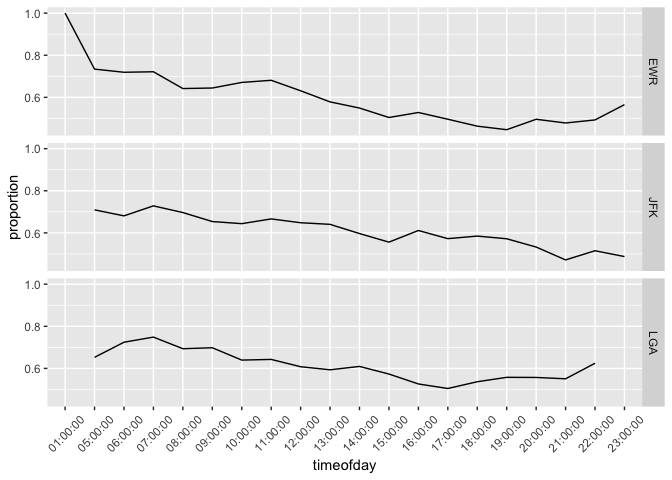
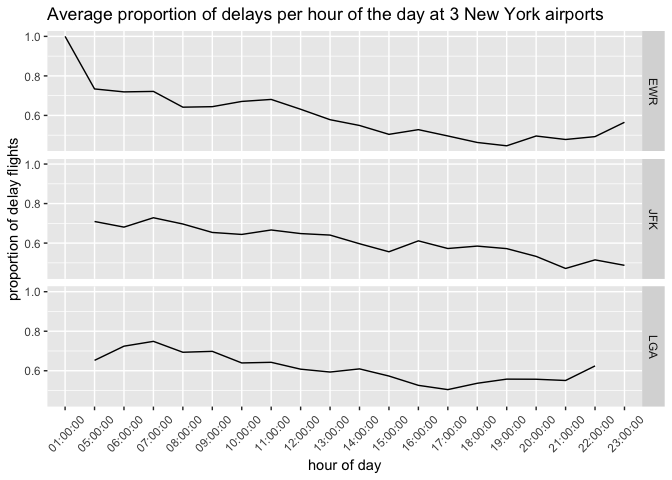
latest version

diff --git a/assignment2-433.md b/assignment2-433.md
@@ -3,6 +3,17 @@ assignment2-433
 Chenshuo Pan
 2022-10-07
 
+**This file analyzes the delays at New York airports at different times
+of the day, considering that the number of flights in each period is
+different, so here I use the ratio as a measure. The delay data is
+analyzed in combination with factors such as seasons, different
+airports, airlines, etc., and some experiments are carried out based on
+my own experience. In general, it is recommended to take flights in the
+mornings in winter and evenings in summer, and there is not much
+difference between the three airports in New York. Recommend United
+Airline in airline selection, Southwest Airlines in the evening, not
+Virgin America at noon.**
+
 ``` r
 library(dplyr)
 ```
@@ -179,23 +190,17 @@ flight_season <-left_join(flight_season2,flight_season1)%>%mutate(proportion = n
     ## Joining, by = c("timeofday", "season")
 
 ``` r
-ggplot()+
-  # geom_bar(mapping = aes(x = timeofday, y = n),stat="identity")+
-  geom_line(aes(x = flight_season$timeofday[flight_season$season=="Spring"],y = flight_season$proportion[flight_season$season=="Spring"]),group = 1,color="red")+
-  geom_line(aes(x = flight_season$timeofday[flight_season$season=="Summer"],y = flight_season$proportion[flight_season$season=="Summer"]),group = 1,color="green")+
-  geom_line(aes(x = flight_season$timeofday[flight_season$season=="Autumn"],y = flight_season$proportion[flight_season$season=="Autumn"]),group = 1,color="blue")+
-  geom_line(aes(x = flight_season$timeofday[flight_season$season=="Winter"],y = flight_season$proportion[flight_season$season=="Winter"]),group = 1,color="yellow")+
-  theme(axis.text.x = element_text(angle = 45, hjust = 0.5, vjust = 0.5))+
+flight_season%>%ggplot(aes(x = timeofday,
+                           y = proportion,
+                           color = season))+
+  geom_line(group = flight_season$season)+
+theme(axis.text.x = element_text(angle = 45, hjust = 0.5, vjust = 0.5))+
   xlab("hour of day")+
-  ylab("proportion of delay flights")+theme(legend.text = element_text(size = 8, colour = "red"))
+  ylab("proportion of delay flights")+theme(legend.text = element_text(size = 8, colour = "red"))+
+  ggtitle("Average proportion of delays time of the day for the four seasons")
 ```
 
 ![](assignment2-433_files/figure-gfm/unnamed-chunk-8-1.png)<!-- -->
-
-``` r
-# legend("topleft",legend = c("Springm","Summer","Autumn","Winter"),col = c("red",'green','blue,’yellow'))
-```
-
 **Here, according to the four seasons, I have drawn the proportional
 curve of each time point. It can be clearly seen that the blue color is
 autumn, and the flight delay ratio is always higher than that of the
@@ -235,7 +240,10 @@ flight_origin <-left_join(flight_origin2,flight_origin1)%>%mutate(proportion = n
 ggplot(flight_origin)+
   geom_line(aes(x = timeofday,y = proportion),group = 1)+
   facet_grid(origin~.)+
-    theme(axis.text.x = element_text(angle = 45, hjust = 0.5, vjust = 0.5))
+    theme(axis.text.x = element_text(angle = 45, hjust = 0.5, vjust = 0.5))+
+    xlab("hour of day")+
+  ylab("proportion of delay flights")+
+  ggtitle("Average proportion of delays per hour of the day at 3 New York airports")
 ```
 
 ![](assignment2-433_files/figure-gfm/unnamed-chunk-11-1.png)<!-- -->
@@ -268,7 +276,10 @@ flight_carrier <-left_join(flight_carrier2,flight_carrier1)%>%mutate(proportion 
 ggplot(flight_carrier)+
   geom_line(aes(x = timeofday,y = proportion),group = 1)+
   facet_wrap(carrier~.)+
-    theme(axis.text.x = element_text(angle = 45, hjust = 0.5, vjust = 0.5))
+    theme(axis.text.x = element_text(angle = 45, hjust = 0.5, vjust = 0.5))+
+      xlab("hour of day")+
+  ylab("proportion of delay flights")+
+  ggtitle("Average proportion of delays per hour of the day for different flight companies")
 ```
 
 ![](assignment2-433_files/figure-gfm/unnamed-chunk-13-1.png)<!-- -->
@@ -324,7 +335,10 @@ dis<-flight%>%
 ``` r
 dis[is.na(dis)]<-0
 ggplot(dis)+
-  geom_point(aes(x =distance,y =proportion))
+  geom_point(aes(x =distance,y =proportion))+
+    xlab("flight distance")+
+  ylab("proportion of delay flights")+
+  ggtitle("Average proportion of delays versus flight distance ")
 ```
 
 ![](assignment2-433_files/figure-gfm/unnamed-chunk-16-1.png)<!-- -->
